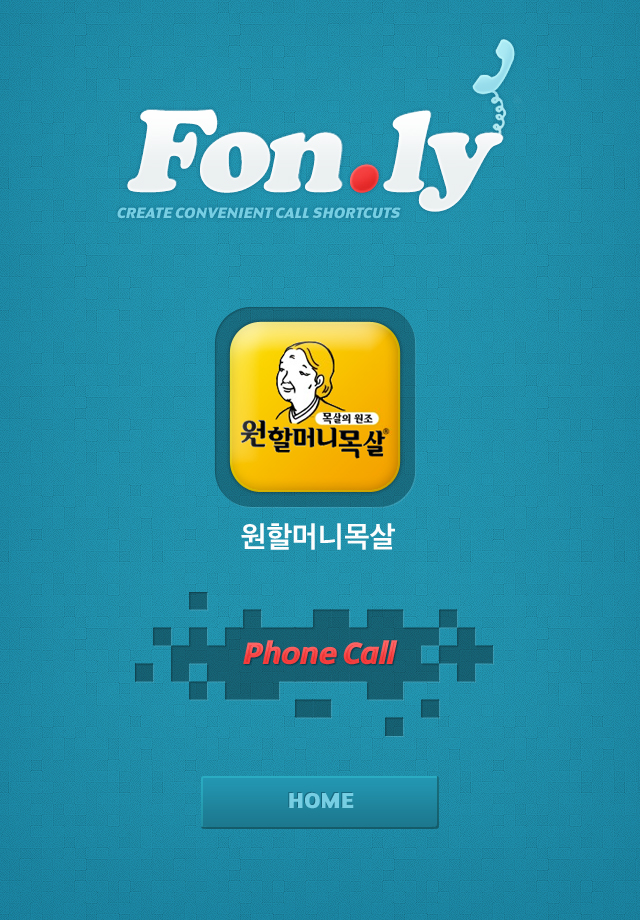
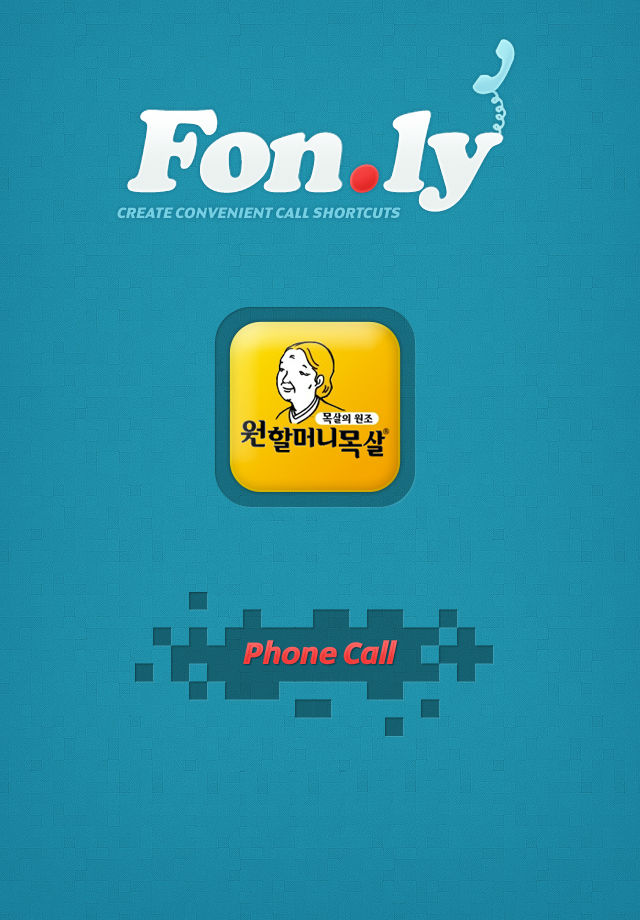
모바일 화면 디자인 입히기

diff --git a/templates/mobilepage/index.html b/templates/mobilepage/index.html
@@ -2,6 +2,21 @@
 <head>
 <title>{{post.title}}</title>
 <link rel="apple-touch-icon" href="/static/upload/114_{{post.filename}}" />
+<style>
+
+body {
+    margin:0px;
+}
+div {
+    background-image:url(/static/img/fonly_mobile.jpg);
+    background-repeat:no-repeat;
+    background-attachment:fixed;
+    background-position:center top; 
+    background-size:100%;
+    width:100%;
+    height:1400px;
+}
+</style>
 </head>
 <body>
 <script>
@@ -10,7 +25,11 @@ if("true"=="{{phonecall}}") {
 }
 </script>
 <p>
+<!--
 <a href="tel:{{post.phone}}">전화걸기</a>
 <a href="http://192.168.12.107/p/9d0a52/">현재 페이지</a>
+-->
+<div>
+</div>
 </body>
 </html>
